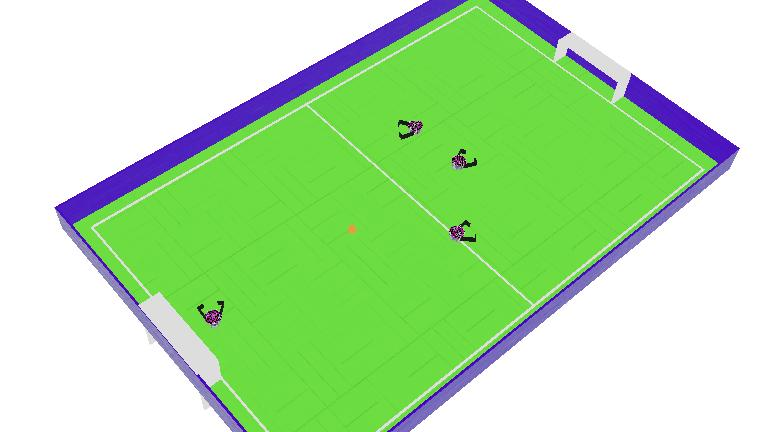
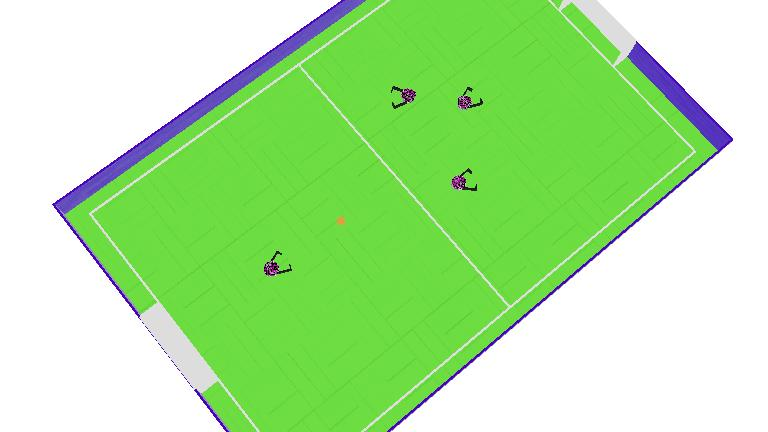
APF 3rd defender added

diff --git a/controllers/APF/APF.py b/controllers/APF/APF.py
@@ -10,6 +10,7 @@ timestep = int(robot.getBasicTimeStep())
 # Supervisor handles for defenders
 def1 = robot.getFromDef("defender1")
 def2 = robot.getFromDef("defender2")
+def3 = robot.getFromDef("defender3") # Optional third defender, can be None
 
 # Standard devices
 gps = robot.getDevice("gps")
@@ -89,6 +90,9 @@ def update_vrf(curr_pos):
     if def2 is not None:
         p2 = def2.getPosition()[:2]
         dynamic_obstacles.append(p2)
+    if def3 is not None:
+        p3 = def3.getPosition()[:2]
+        dynamic_obstacles.append(p3)
     
     # Project obstacles onto VRF beams
     for obs in dynamic_obstacles:
